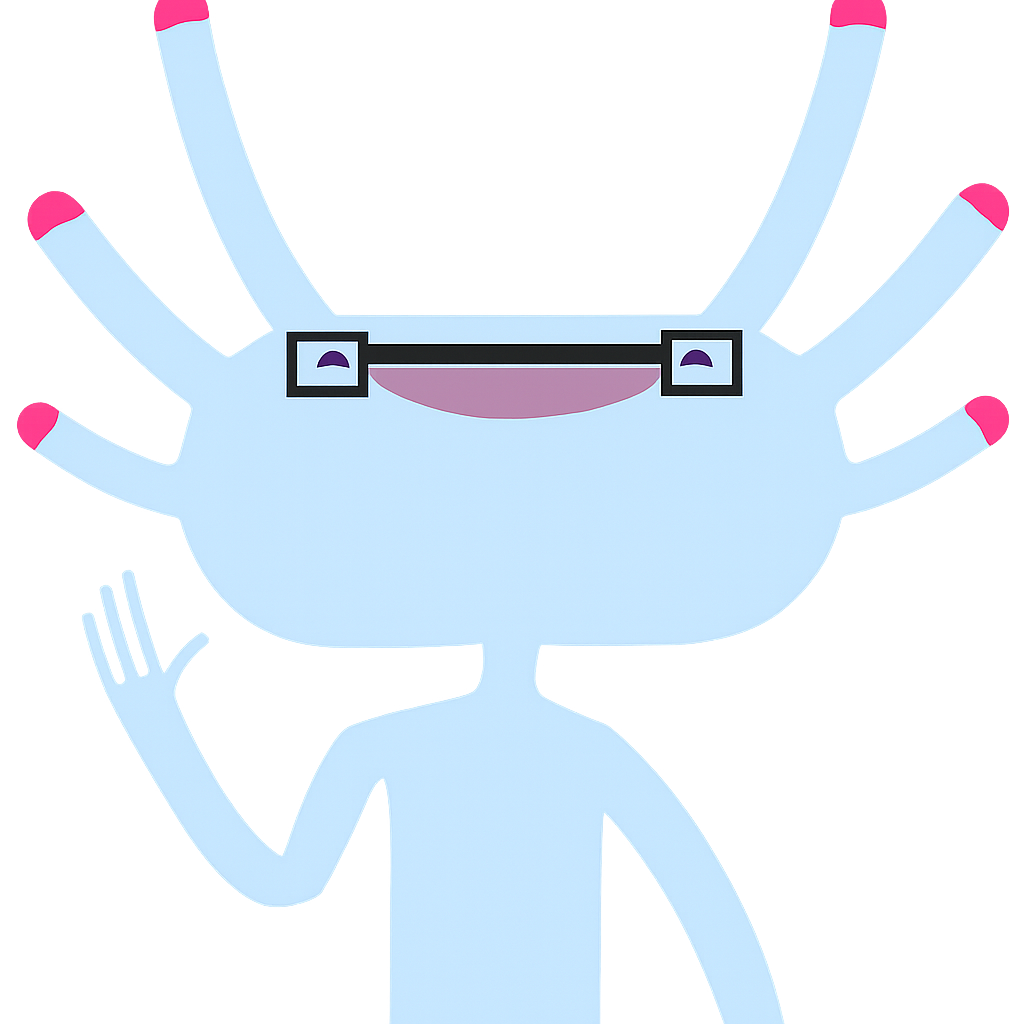
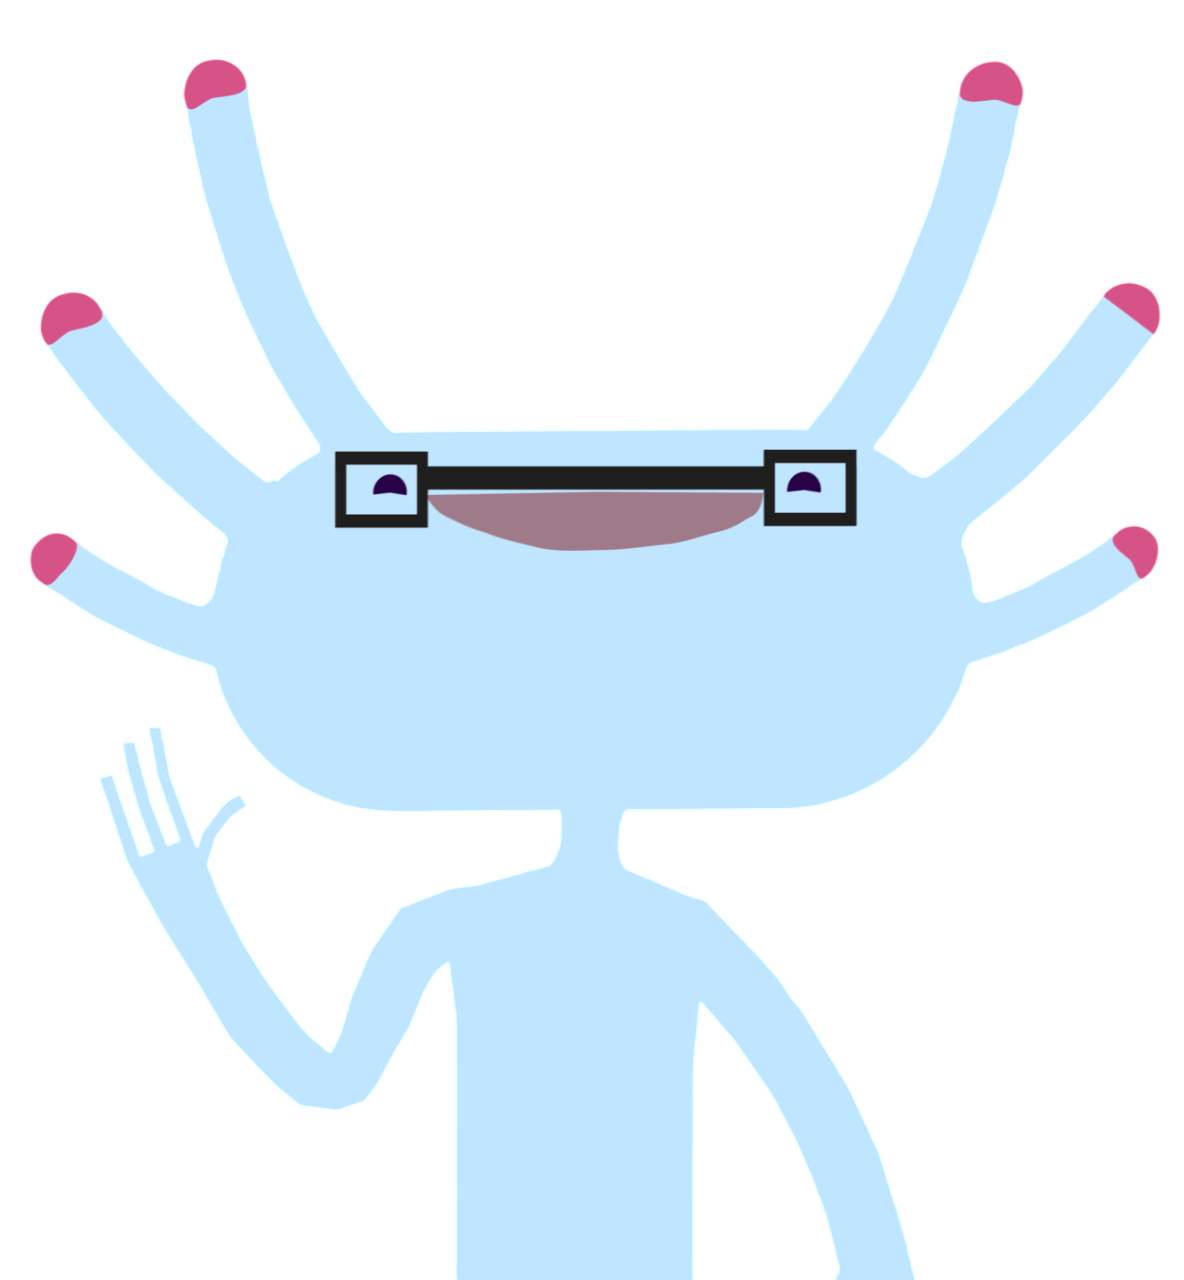
Add setup overlay and wire it into SetupPage
- Add `SetupOnboardingOverlay` UI and export it from `features/onboarding`
- Show the overlay on the setup screen until onboarding is dismissed (`onboardingStartedGameAtom`)
- Add/update onboarding assets (`1.png`, updated `dofinal.png`)

diff --git a/src/features/onboarding/ui/setup-onboarding-overlay.tsx b/src/features/onboarding/ui/setup-onboarding-overlay.tsx
@@ -1,0 +1,44 @@
+import { motion } from "motion/react";
+
+import doFinalImage from "@/shared/assets/dofinal.png";
+
+type SetupOnboardingOverlayProps = {
+  onClose?: () => void;
+};
+
+export function SetupOnboardingOverlay({ onClose }: SetupOnboardingOverlayProps) {
+  return (
+    <motion.button
+      type="button"
+      onClick={onClose}
+      className="fixed inset-0 z-50 block h-full w-full cursor-pointer overflow-hidden bg-white p-0 text-left"
+      initial={{ opacity: 0 }}
+      animate={{ opacity: 1 }}
+      transition={{ duration: 0.35, ease: [0.22, 1, 0.36, 1] }}
+    >
+      <span className="sr-only">Закрыть онбординг</span>
+
+      <motion.div
+        className="pointer-events-none absolute top-1/2 z-10 w-[min(64vw,760px)] -translate-y-1/2 rounded-[2rem] border border-slate-200 bg-white/95 p-6 shadow-lg right-[clamp(1rem,43vw,680px)] sm:p-8 md:p-10"
+        initial={{ x: 52, opacity: 0 }}
+        animate={{ x: 0, opacity: 1 }}
+        transition={{ duration: 0.55, delay: 0.12, ease: [0.22, 1, 0.36, 1] }}
+      >
+        <p className="text-lg font-semibold leading-relaxed text-slate-900 sm:text-xl md:text-2xl">
+          Привет,меня зовут Флотти, и я ведущий этой игры. Вижу ты новенький. Давай проведу тебе небольной
+          гайд по игре.
+        </p>
+      </motion.div>
+
+      <motion.img
+        src={doFinalImage}
+        alt="Onboarding"
+        className="pointer-events-none select-none absolute bottom-0 right-0 h-auto w-[min(42vw,560px)] sm:w-[min(46vw,620px)] md:w-[min(52vw,720px)]"
+        initial={{ x: 160, opacity: 0 }}
+        animate={{ x: 0, opacity: 1 }}
+        transition={{ duration: 0.7, delay: 0.08, ease: [0.22, 1, 0.36, 1] }}
+        draggable={false}
+      />
+    </motion.button>
+  );
+}

diff --git a/src/pages/setup/ui/setup-page.tsx b/src/pages/setup/ui/setup-page.tsx
@@ -1,9 +1,11 @@
-import { useAtom } from "jotai";
+import { useAtom, useAtomValue, useSetAtom } from "jotai";
 import { History } from "lucide-react";
 import { AnimatePresence } from "motion/react";
+import { SetupOnboardingOverlay } from "@/features/onboarding";
 import { PlayersSetupScreen } from "@/features/players-setup";
 import { PacksSetupScreen } from "@/features/packs-setup";
 import { Button } from "@/shared/components/ui/button";
+import { markOnboardingStartedGameAtom, onboardingStartedGameAtom } from "@/shared/store/onboardingAtom";
 import { setupStepAtom } from "@/shared/store/setupAtoms";
 
 type SetupPageProps = {
@@ -13,6 +15,8 @@ type SetupPageProps = {
 
 export function SetupPage({ onStartGame, onOpenHistory }: SetupPageProps) {
   const [step, setStep] = useAtom(setupStepAtom);
+  const hasOnboardingFlag = useAtomValue(onboardingStartedGameAtom);
+  const markOnboardingStartedGame = useSetAtom(markOnboardingStartedGameAtom);
 
   return (
     <>
@@ -38,6 +42,10 @@ export function SetupPage({ onStartGame, onOpenHistory }: SetupPageProps) {
           />
         )}
       </AnimatePresence>
+
+      {!hasOnboardingFlag ? (
+        <SetupOnboardingOverlay onClose={markOnboardingStartedGame} />
+      ) : null}
     </>
   );
 }

diff --git a/src/features/onboarding/index.ts b/src/features/onboarding/index.ts
@@ -1,1 +1,2 @@
 export * from "./model";
+export * from "./ui";

diff --git a/src/features/onboarding/ui/index.ts b/src/features/onboarding/ui/index.ts
@@ -1,0 +1,1 @@
+export { SetupOnboardingOverlay } from "./setup-onboarding-overlay";